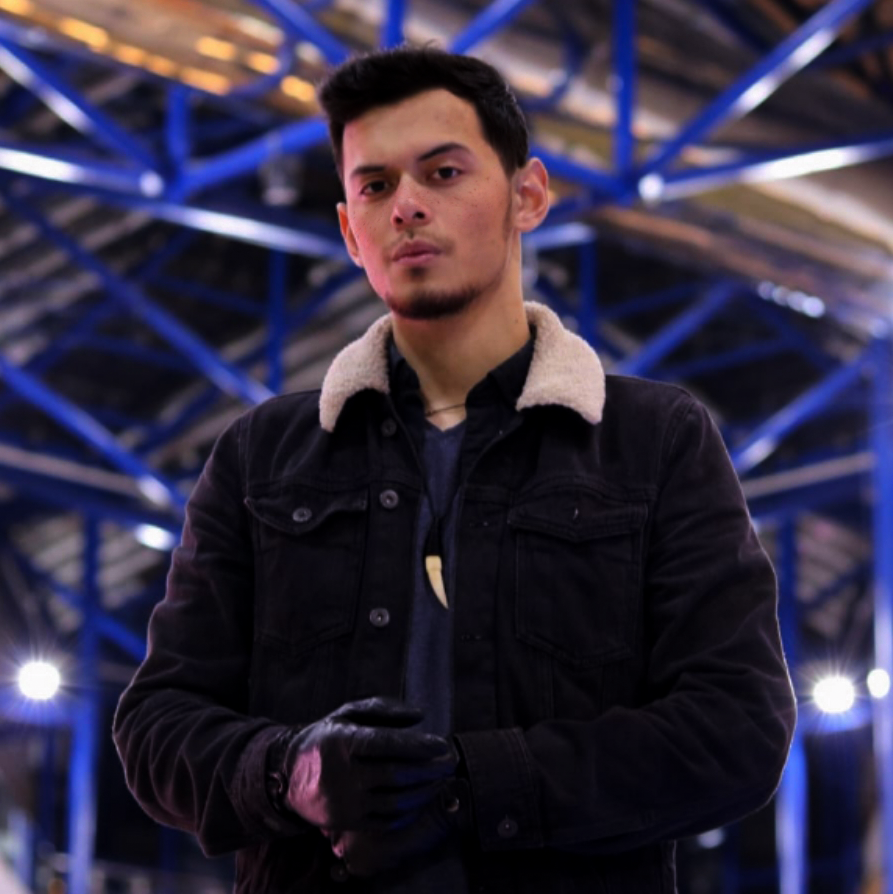
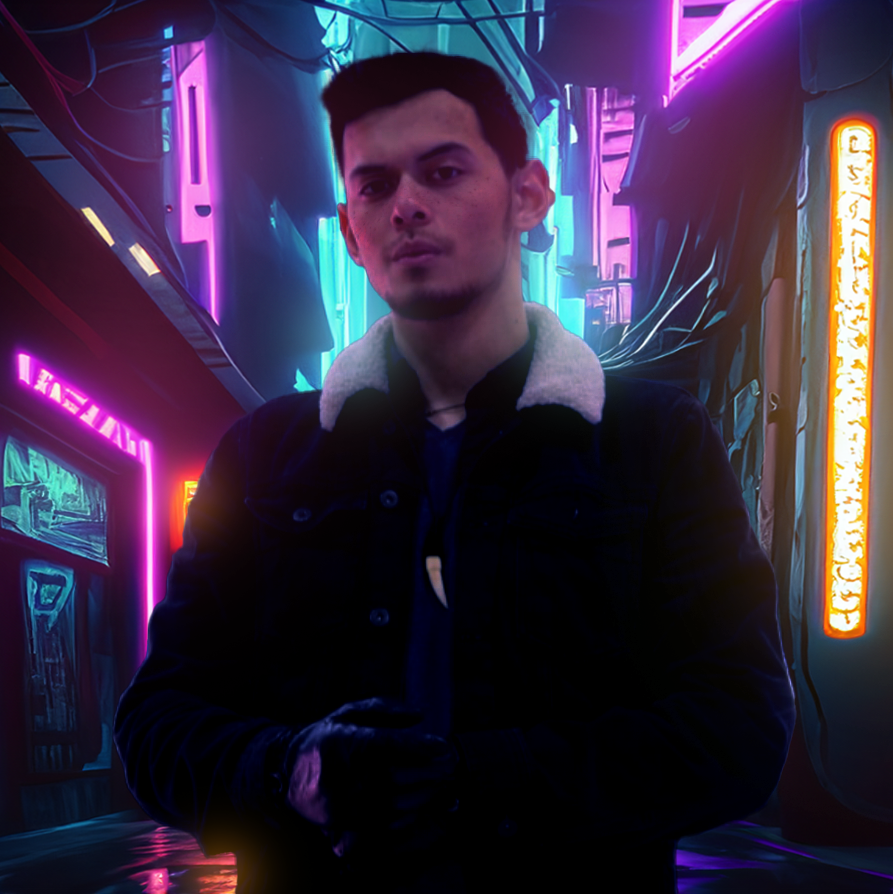
Some styling overhauls

diff --git a/src/components/Intro.jsx b/src/components/Intro.jsx
@@ -1,20 +1,25 @@
 import React from "react";
+import backgroundImage from "/assets/Synth.png";
 
 function Intro() {
+  const backgroundImage = "url('/assets/Synth.png')";
   return (
-    <div className="min-h-screen flex items-center justify-center flex-col text-center pt-20 pb-6">
+    <div
+      className="min-h-screen flex items-center justify-center flex-col text-center pt-20 pb-6 mb-20"
+      style={{ backgroundImage, backgroundPosition: 'center center', }}
+    >
       <h1 className="text-5xl md:text-7xl mb-1 md:mb-3 font-bold dark:text-white mt-7 z-10">
-        Kevin Grittner
+        Hi I'm <span className="text-pink-500">Kevin</span>
       </h1>
       <p className="text-base md:text-2xl mb-3 font-medium z-10">
-        Software Engineer & Web Developer
+        I'm a Software Engineer & Web Developer
       </p>
       <img
         src="/assets/Picsart2.png"
         alt="Kevin"
         className="rounded-full w-72 mt-3 mb-7 z-10"
       />
-      <p className="text-sm max-w-xl mb-6 font-bold z-10">
+      <p className="text-md max-w-3xl mb-6 font-bold z-10">
         Combining Creativity with Technical Expertise to Build Innovative Apps
         <br />-<br />
         My goal as a developer is to build applications that are intuitive,
@@ -190,7 +195,7 @@ function Intro() {
           />{" "}
         </a>
       </p>
-      <div className="h-1 bg-gray-700 w-full opacity-70 mt-5 mb-5" />
+      {/* <div className="h-1 bg-gray-700 w-full opacity-70 mt-5 mb-5" /> */}
     </div>
   );
 }

diff --git a/src/App.jsx b/src/App.jsx
@@ -73,11 +73,11 @@ function App() {
       </button>
       <div
         className={`${
-          theme === "dark" ? "bg-stone-900 text-stone-300" : "bg-white text-stone-900 dark:bg-stone-900 dark:text-stone-300"
+          theme === "dark" ? "bg-primary text-stone-300" : "bg-white text-stone-900 dark:bg-stone-900 dark:text-stone-300"
         } min-h-screen font-inter transition-all`}
       >
         <Navbar />
-        <div className="w-11/12 mx-auto">
+        <div className="w-full mx-auto">
           <Intro />
           <PortfolioItem />
           <ImageCarousel />

diff --git a/index.html b/index.html
@@ -8,6 +8,7 @@
     <link rel="preconnect" href="https://fonts.googleapis.com">
     <link rel="preconnect" href="https://fonts.gstatic.com" crossorigin>
     <link href="https://fonts.googleapis.com/css2?family=Inter:wght@300;400;500;600;700&display=swap" rel="stylesheet">
+    <link href="https://fonts.googleapis.com/css2?family=Roboto:wght@300;400;500;700&display=swap" rel="stylesheet">
   </head>
   <body>
     <div id="root"></div>
